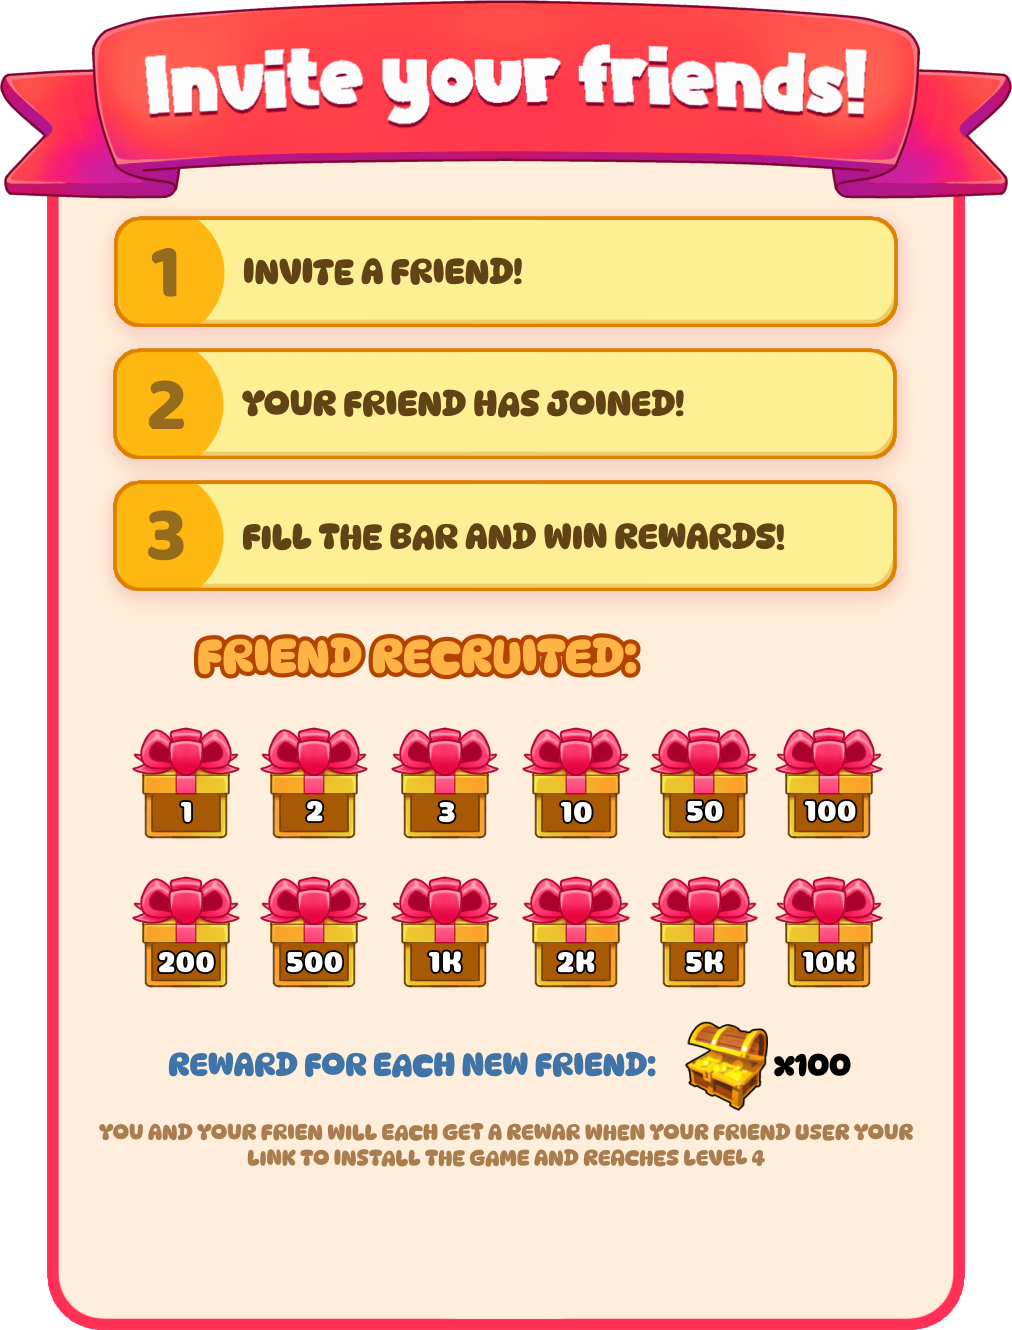
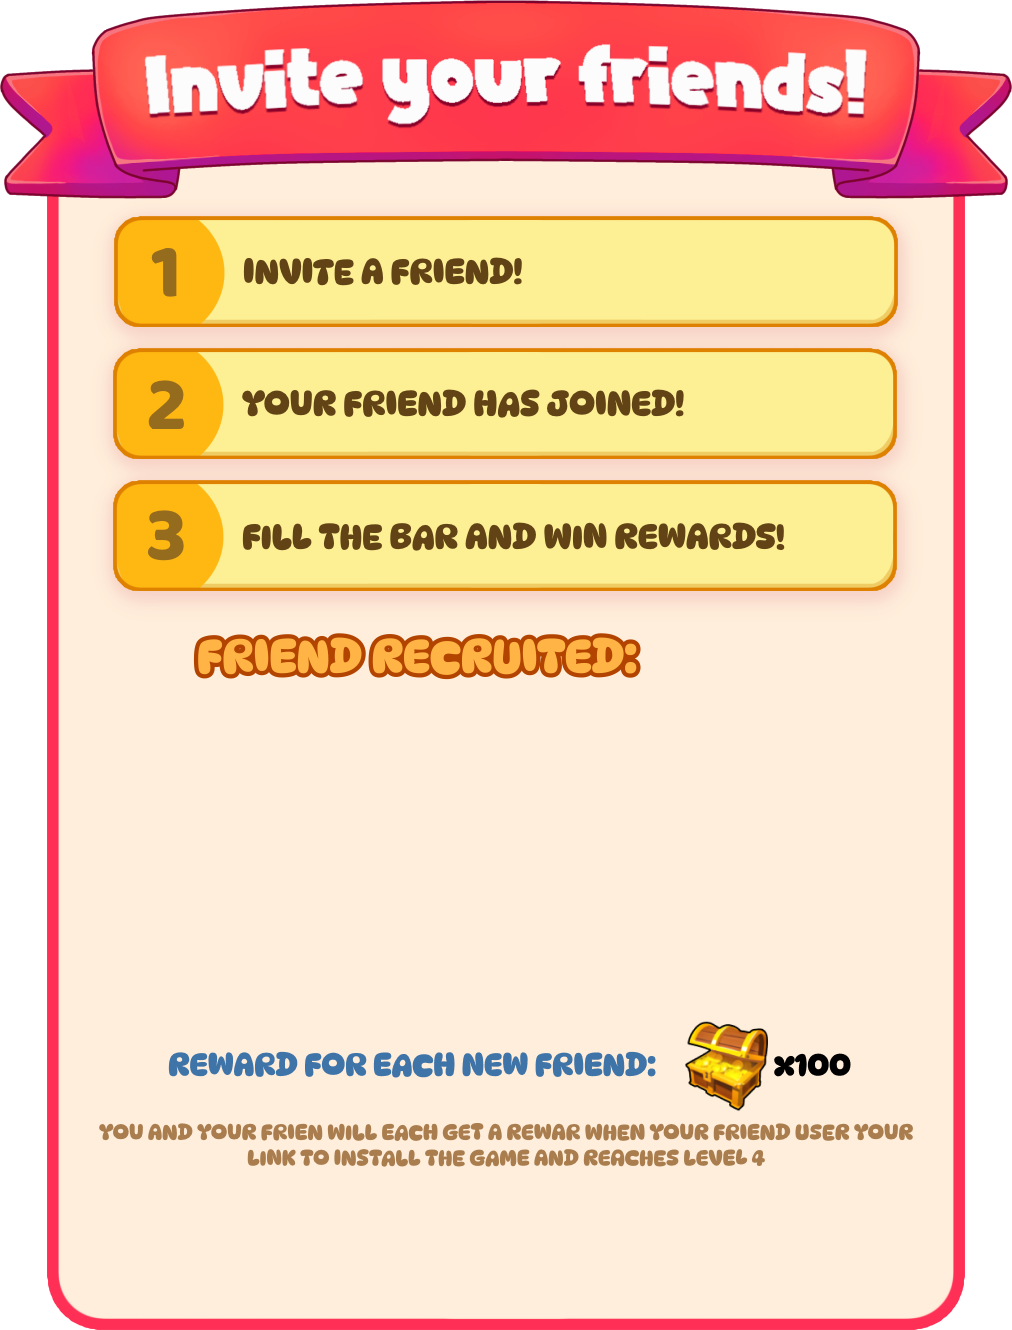
SMK-49 layout claim invited

Changed region(s): [[0.1225, 0.5241, 0.4901, 0.7398], [0.5208, 0.5241, 0.8883, 0.7398]]

diff --git a/src/pages/game/referral/index.vue b/src/pages/game/referral/index.vue
@@ -2,6 +2,18 @@
 import gameBg from "@images/game/bg-game-2.png";
 import inviteFriends from "@images/game/invite-friends.png";
 import btnInvite from "@images/game/btn-invite.png";
+import invitedReward1 from "@images/game/invited-reward-1.png";
+import invitedReward2 from "@images/game/invited-reward-2.png";
+import invitedReward3 from "@images/game/invited-reward-3.png";
+import invitedReward4 from "@images/game/invited-reward-4.png";
+import invitedReward5 from "@images/game/invited-reward-5.png";
+import invitedReward6 from "@images/game/invited-reward-6.png";
+import invitedReward7 from "@images/game/invited-reward-7.png";
+import invitedReward8 from "@images/game/invited-reward-8.png";
+import invitedReward9 from "@images/game/invited-reward-9.png";
+import invitedReward10 from "@images/game/invited-reward-10.png";
+import invitedReward11 from "@images/game/invited-reward-11.png";
+import invitedReward12 from "@images/game/invited-reward-12.png";
 
 definePage({
   meta: {
@@ -10,10 +22,26 @@ definePage({
   },
 });
 
+const invitedRewards = [
+  invitedReward1,
+  invitedReward2,
+  invitedReward3,
+  invitedReward4,
+  invitedReward5,
+  invitedReward6,
+  invitedReward7,
+  invitedReward8,
+  invitedReward9,
+  invitedReward10,
+  invitedReward11,
+  invitedReward12,
+];
+
 const gameContentRef = ref(null);
 const inviteDialogRef = ref(null);
 const claimInviteDialogRef = ref(null);
 const parentDivWidth = ref(0);
+
 let resizeObserver;
 
 onMounted(() => {
@@ -31,6 +59,11 @@ onMounted(() => {
 const submitInvite = () => {
   console.log("submitInvite");
   inviteDialogRef.value.openDialog();
+};
+
+const submitClaimInvited = () => {
+  console.log("submitClaimInvited");
+  claimInviteDialogRef.value.openDialog();
 };
 
 onBeforeUnmount(() => {
@@ -51,33 +84,48 @@ onBeforeUnmount(() => {
       :style="{ backgroundImage: `url(${inviteFriends})` }"
     >
       <div class="tw-flex-auto">
-        <!-- <div class="tw-font-bold">1000</div> -->
-        <svg
-          viewBox="0 0 68 15"
-          xmlns="http://www.w3.org/2000/svg"
-          class="tw-w-full tw-h-full"
-        >
-          <text
-            x="70%"
-            y="73%"
-            dominant-baseline="middle"
-            text-anchor="start"
-            font-family="DynaPuff"
-            font-size="20%"
-            font-weight="700"
-            padding-left="1%"
-            fill="#fff"
-            stroke="#B24400"
-            stroke-width="0.7"
-            paint-order="stroke fill"
-            text-overflow="ellipsis"
-            white-space="nowrap"
-            overflow="hidden"
-            width="100%"
+        <div class="tw-flex-auto tw-aspect-[1080/650] tw-w-full"></div>
+        <div class="tw-aspect-[1080/80] tw-w-full">
+          <svg
+            viewBox="0 0 68 15"
+            xmlns="http://www.w3.org/2000/svg"
+            class="tw-w-full tw-h-full"
           >
-            1000
-          </text>
-        </svg>
+            <text
+              x="100%"
+              y="55%"
+              dominant-baseline="middle"
+              text-anchor="start"
+              font-family="DynaPuff"
+              font-size="60%"
+              font-weight="700"
+              fill="#fff"
+              stroke="#B24400"
+              stroke-width="1.5"
+              paint-order="stroke fill"
+              text-overflow="ellipsis"
+              white-space="nowrap"
+              overflow="hidden"
+              width="100%"
+            >
+              1000
+            </text>
+          </svg>
+        </div>
+
+        <div class="tw-flex-auto tw-aspect-[1080/300] tw-w-full tw-px-[12%]">
+          <div
+            class="tw-h-full tw-grid tw-grid-cols-6 tw-grid-rows-2 tw-gap-[2%]"
+          >
+            <v-img
+              v-for="(src, index) in invitedRewards"
+              :key="index"
+              :src="src"
+              class="tw-w-full tw-h-full"
+              @click.stop="submitClaimInvited"
+            />
+          </div>
+        </div>
       </div>
       <div
         class="tw-mb-[3%] tw-w-full tw-flex tw-justify-center tw-items-center"
@@ -99,3 +147,10 @@ onBeforeUnmount(() => {
     />
   </div>
 </template>
+
+<style lang="postcss" scoped>
+.received {
+  filter: grayscale(100%);
+  opacity: 0.7;
+}
+</style>

diff --git a/src/utils/helpers.js b/src/utils/helpers.js
@@ -61,6 +61,6 @@ export const getApiPath = (path, params) => {
 };
 
 export const truncateString = (str, maxLength = 9, suffix = "...") => {
-  if (typeof str !== "string") throw new TypeError("Input must be a string");
+  if (typeof str !== "string") return "";
   return str.length > maxLength ? `${str.slice(0, maxLength)}${suffix}` : str;
 };
